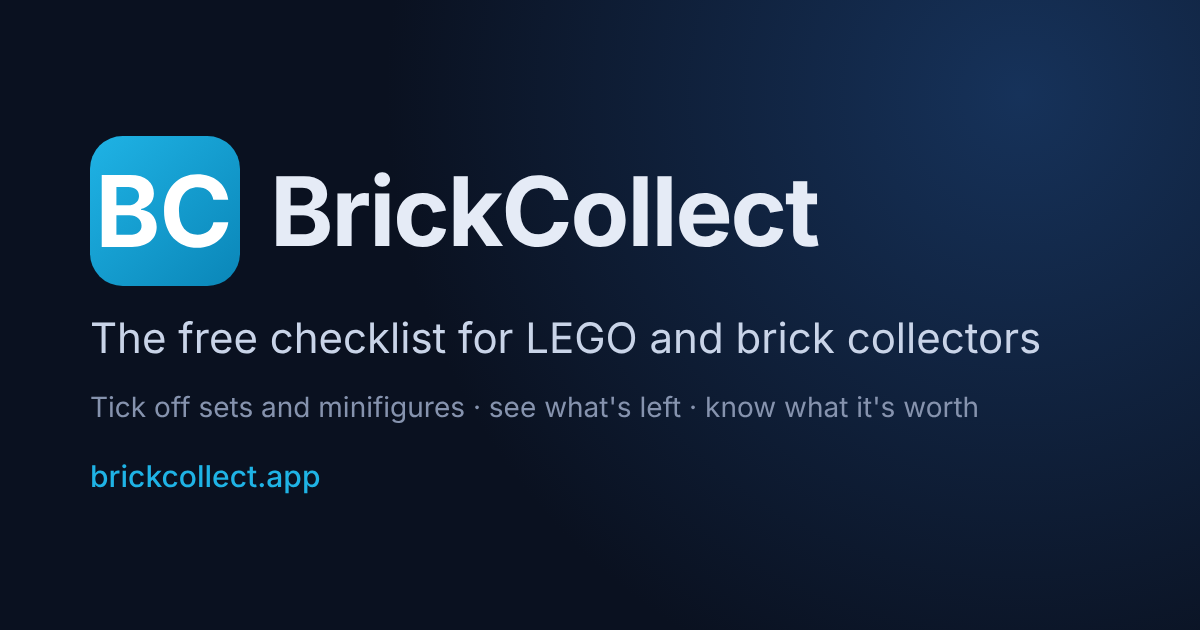
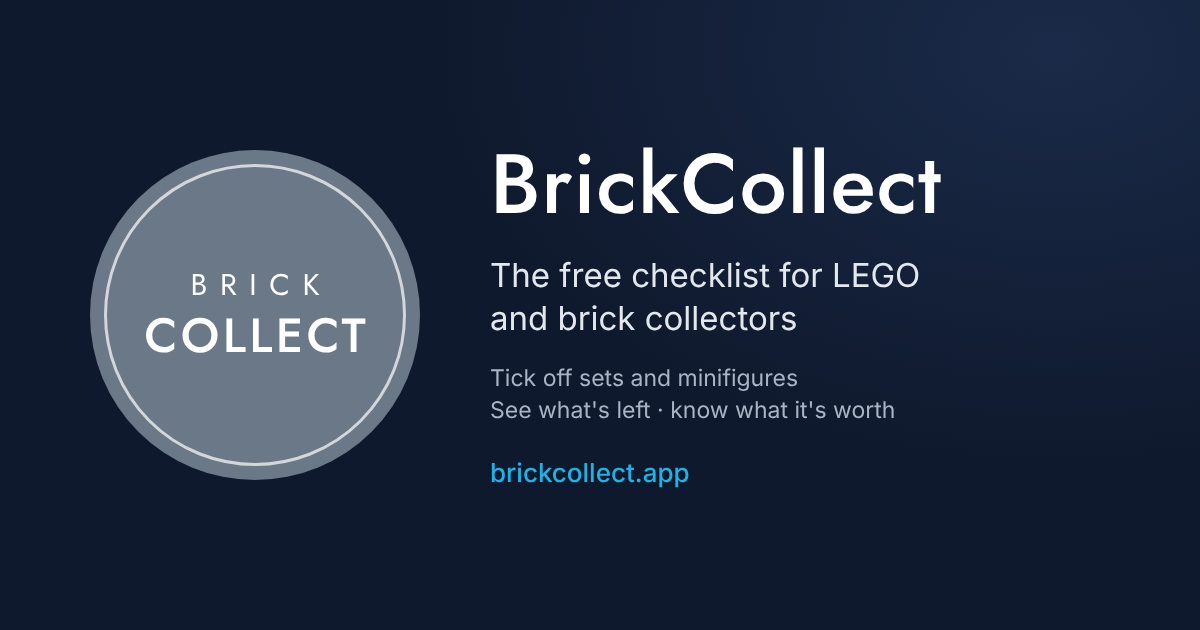
Link preview image in the new brand (moonstone BRICK COLLECT badge, Jost); ?v=2 to refresh caches
Claude-Session: https://claude.ai/code/session_01G8FhTZeAebe875zf2YfJeL

Changed region(s): [[0.0617, 0.2111, 0.8633, 0.7841], [0.4008, 0.3921, 0.7708, 0.4524], [0.4008, 0.7238, 0.5858, 0.7841]]

diff --git a/public/index.html b/public/index.html
@@ -11,13 +11,13 @@
 <meta property="og:description" content="Tick off sets and minifigures, see what's left to collect and what your collection is worth.">
 <meta property="og:type" content="website">
 <meta property="og:url" content="https://brickcollect.app/">
-<meta property="og:image" content="https://brickcollect.app/og-image.png">
+<meta property="og:image" content="https://brickcollect.app/og-image.png?v=2">
 <meta property="og:image:width" content="1200">
 <meta property="og:image:height" content="630">
 <meta property="og:image:alt" content="BrickCollect: the free checklist for LEGO and brick collectors">
 <meta property="og:locale" content="en_AU">
 <meta name="twitter:card" content="summary_large_image">
-<script type="application/ld+json">{"@context":"https://schema.org","@type":"WebApplication","name":"BrickCollect","url":"https://brickcollect.app/","description":"The free checklist for LEGO and brick collectors: tick off sets and minifigures, see what's left to collect and what your collection is worth.","applicationCategory":"LifestyleApplication","operatingSystem":"Any (web browser)","offers":{"@type":"Offer","price":"0","priceCurrency":"AUD"},"image":"https://brickcollect.app/og-image.png","creator":{"@type":"Organization","name":"The Art of Bricks","sameAs":["https://www.instagram.com/the_artofbricks/","https://www.youtube.com/@TheArtofBricks"]}}</script>
+<script type="application/ld+json">{"@context":"https://schema.org","@type":"WebApplication","name":"BrickCollect","url":"https://brickcollect.app/","description":"The free checklist for LEGO and brick collectors: tick off sets and minifigures, see what's left to collect and what your collection is worth.","applicationCategory":"LifestyleApplication","operatingSystem":"Any (web browser)","offers":{"@type":"Offer","price":"0","priceCurrency":"AUD"},"image":"https://brickcollect.app/og-image.png?v=2","creator":{"@type":"Organization","name":"The Art of Bricks","sameAs":["https://www.instagram.com/the_artofbricks/","https://www.youtube.com/@TheArtofBricks"]}}</script>
 <meta name="theme-color" content="#0a1120">
 <link rel="icon" href="/favicon.svg" type="image/svg+xml">
 <link rel="icon" href="/favicon.ico" sizes="32x32">

diff --git a/public/sale.html b/public/sale.html
@@ -11,7 +11,7 @@
 <meta property="og:title" content="Sale or trade list on BrickCollect">
 <meta property="og:description" content="Sets and minifigures a collector is selling or trading. LEGO and other brick brands.">
 <meta property="og:type" content="website">
-<meta property="og:image" content="https://brickcollect.app/og-image.png">
+<meta property="og:image" content="https://brickcollect.app/og-image.png?v=2">
 <meta property="og:image:width" content="1200">
 <meta property="og:image:height" content="630">
 <meta name="twitter:card" content="summary_large_image">
